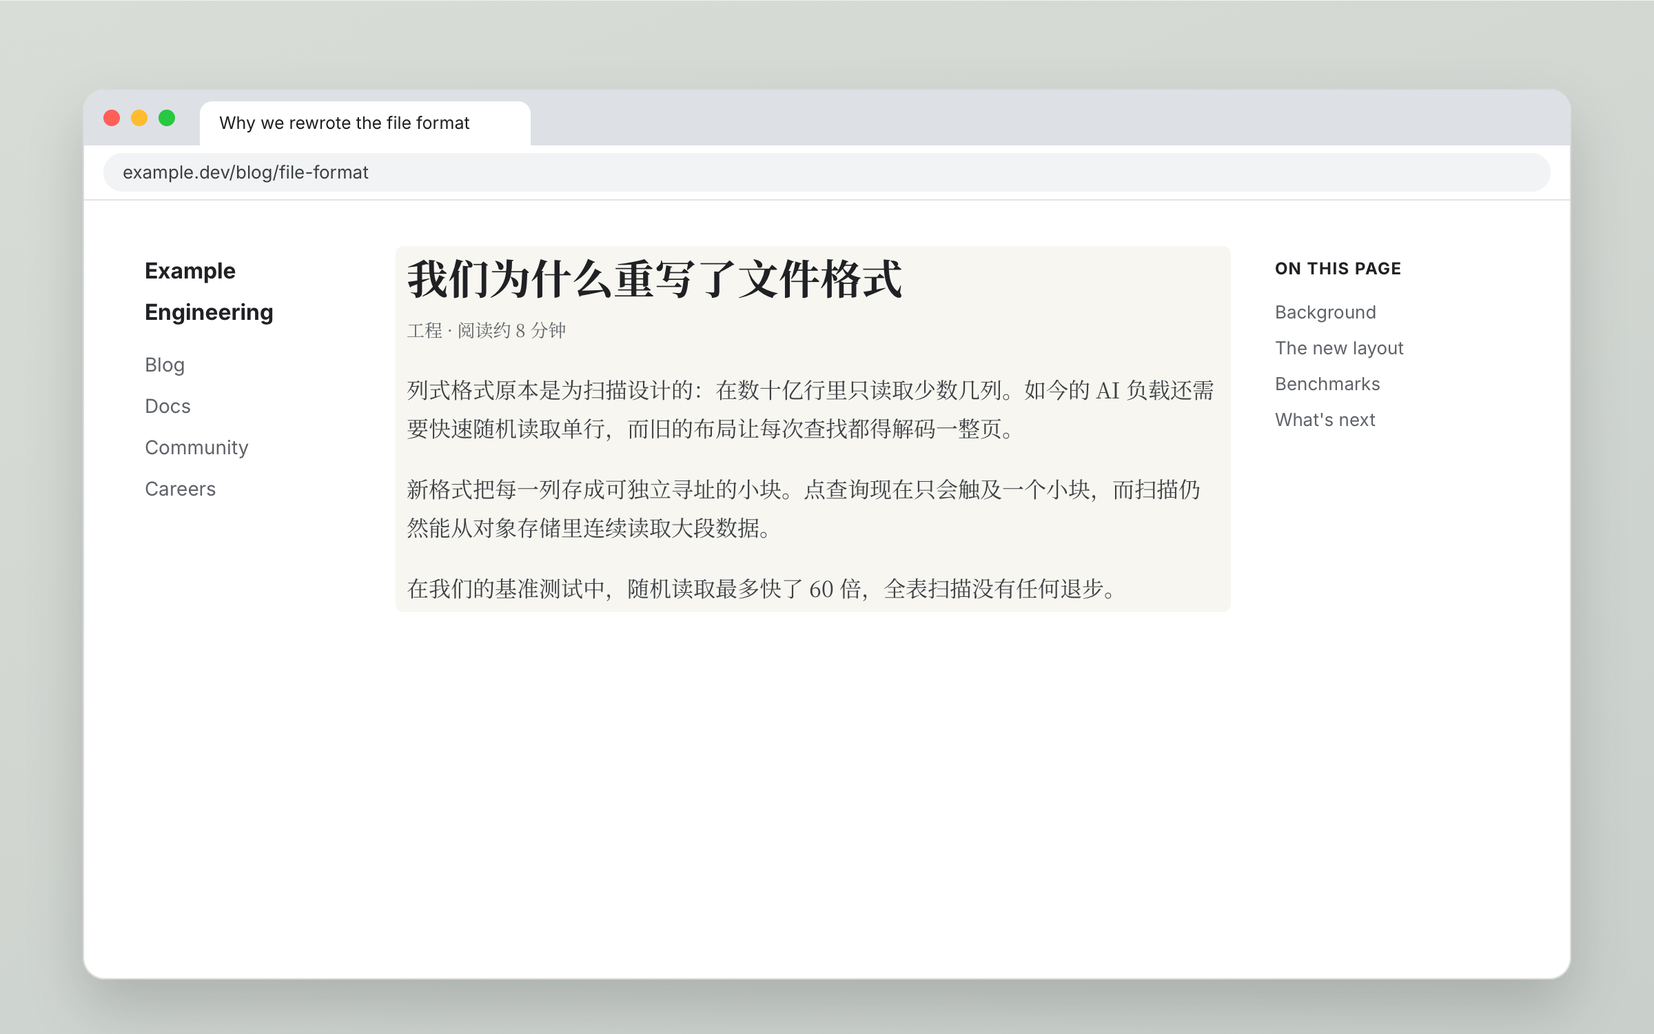
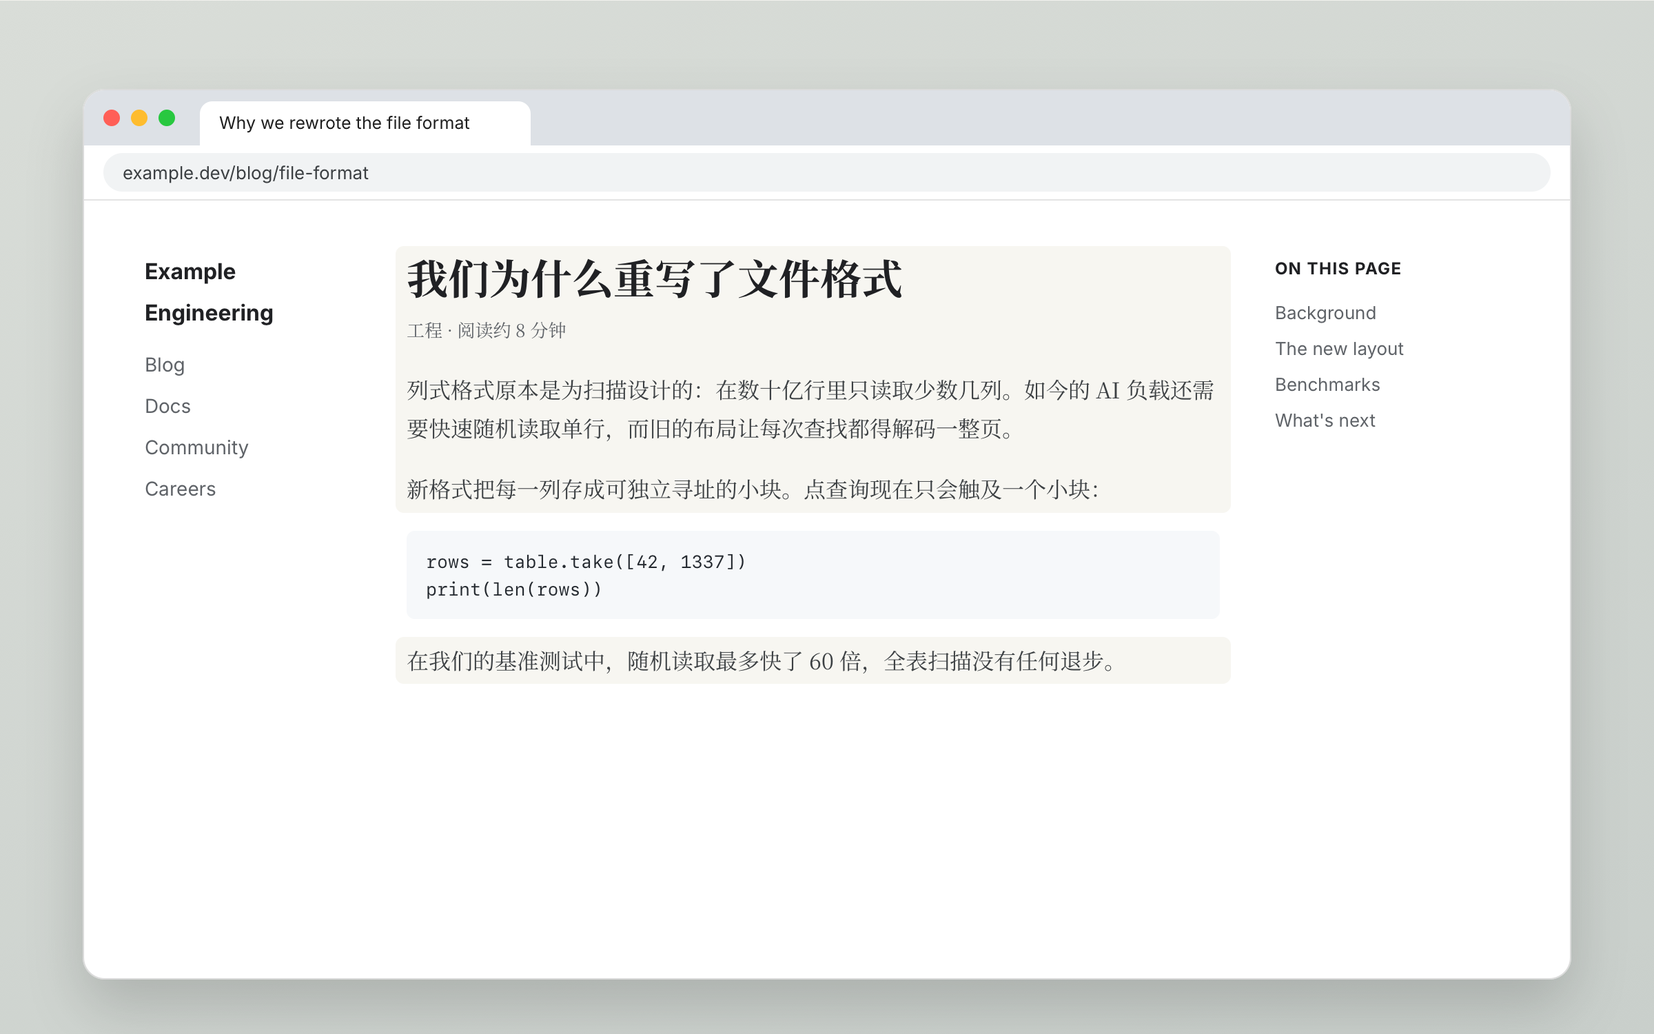
feat: leave code untranslated, including blocks without a code element
Code elements were already kept verbatim, but Slack's ``` blocks reach
Chromium's accessibility tree as a plain group of text: the <pre> is
pruned and no code element is left, so the layer translated them. The
only thing that sets them apart is the face. Chromium exposes no font
family, but it does answer each character's bounds, so text is treated
as code when the characters of its first line are all equally wide and
the sample holds characters a proportional face sets differently. On
live Slack and Claude desktop windows (257 texts) this picked out
exactly the code elements and nothing else. A monospaced run inside a
paragraph goes back unchanged like a code element; a block of it is not
translated at all.

Pasted logs, shell sessions, JSON and stack traces in a proportional face
are caught by what the text reads like. That rule can mistake prose full
of identifiers for code, so it applies to whole-window translation only;
Option-D on such a paragraph still translates it.

diff --git a/Sources/Cida/TranslationLayerRules.swift b/Sources/Cida/TranslationLayerRules.swift
@@ -310,6 +310,18 @@ struct LayerBlock: Equatable, Sendable {
     return words.count < 2
   }
 
+  /// Prose that reads as code: most of its lines are commands, statements, JSON or stack
+  /// frames (§四). Whole-window translation leaves it alone; ⌥D still translates it, so a
+  /// paragraph misjudged here is one key away.
+  var looksLikeCode: Bool {
+    let prose = pieces.filter { !$0.isVerbatim }.map(\.text).joined()
+    let lines = prose.split(whereSeparator: \.isNewline)
+      .map { $0.trimmingCharacters(in: .whitespaces) }
+      .filter { !$0.isEmpty }
+    guard !lines.isEmpty else { return false }
+    return lines.filter(LayerCodeText.isCodeLine).count * 3 >= lines.count * 2
+  }
+
   /// Puts link and code text back where the model kept the placeholders.
   func restoringVerbatim(in translation: String) -> String {
     restoring(in: translation).text
@@ -345,6 +357,80 @@ struct LayerBlock: Equatable, Sendable {
     return last.height <= lineHeight * 1.5
       ? CGPoint(x: last.maxX, y: last.minY)
       : CGPoint(x: frame.maxX, y: frame.maxY - lineHeight)
+  }
+}
+
+/// Code set in a monospaced face without a code element around it, like the ``` blocks of
+/// Slack, which Chromium exposes as a plain group of text (§四). Every character of a
+/// monospaced face is equally wide; in a proportional face a narrow character (`i`, `l`, `.`)
+/// is at least a fifth of the size narrower than the rest. Chromium rounds each character's box
+/// to whole points, so monospaced advances read as 7 and 8 alike.
+enum LayerMonospace {
+  static let narrow = Set("ijltfrI!|.,:;'`()[]{}")
+  static let wide = Set("mwMW@%")
+
+  static func isMonospaced(_ text: String, bounds: (NSRange) -> CGRect?) -> Bool {
+    var widths: [(isOdd: Bool, width: CGFloat)] = []
+    var hasNarrow = false, hasWide = false, hasMiddle = false
+    var firstLine: CGFloat?
+    var lastLeft = -CGFloat.greatestFiniteMagnitude
+    var offset = 0
+    for character in text {
+      let length = character.utf16.count
+      defer { offset += length }
+      if character.isNewline || widths.count >= 24 { break }
+      guard character.isASCII, !character.isWhitespace else { continue }
+      guard let box = bounds(NSRange(location: offset, length: length)), box.width > 0 else { return false }
+      // Only the first line: a wrapped line starts again at the left.
+      if let top = firstLine, abs(box.midY - top) > box.height / 2 { break }
+      // Some apps answer every range with the element's own box; those say nothing.
+      guard box.minX > lastLeft, box.width < box.height * 1.2 else { return false }
+      lastLeft = box.minX
+      firstLine = firstLine ?? box.midY
+      let isNarrow = narrow.contains(character), isWide = wide.contains(character)
+      hasNarrow = hasNarrow || isNarrow
+      hasWide = hasWide || isWide
+      hasMiddle = hasMiddle || (!isNarrow && !isWide)
+      widths.append((isNarrow || isWide, box.width))
+      let all = widths.map(\.width)
+      // Proportional as soon as characters differ by more than rounding.
+      if all.max()! - all.min()! > 1.5 { return false }
+    }
+    // Equal widths only mean something when the sample holds characters a proportional face
+    // sets differently.
+    let telling = (hasNarrow && (hasMiddle || hasWide)) || (hasWide && hasMiddle)
+    return widths.count >= 6 && telling
+  }
+}
+
+/// Lines of prose that read as code (§四): a shell prompt, a statement, an operator, JSON, a
+/// stack frame, or words that are mostly identifiers, paths and flags.
+enum LayerCodeText {
+  static func isCodeLine(_ line: String) -> Bool {
+    // Chat prose uses `->` for "becomes" and starts lines with `[WIP]`, so neither counts.
+    let starts = ["$ ", "#!", "//", "/*", "{", "}"]
+    let operators = ["=>", "::", "==", "!=", "&&", "||", ":=", "();", "</", "/>", "+=", "${"]
+    if line.hasPrefix("at "), line.contains(":"), line.contains("(") { return true }
+    // A JSON or YAML member: `"key": value`.
+    if line.hasPrefix("\""), line.contains("\":") { return true }
+    if starts.contains(where: line.hasPrefix) { return true }
+    if line.hasSuffix(";") || line.hasSuffix("{") || operators.contains(where: line.contains) { return true }
+    let words = line.split(whereSeparator: \.isWhitespace)
+    guard words.count >= 2 else { return words.first.map(isIdentifier) ?? false }
+    // "Fix parse_args() in cli.rs" is a sentence about code, not code.
+    return words.filter(isIdentifier).count * 3 >= words.count * 2
+  }
+
+  /// `snake_case`, `camelCase`, `a.b.c`, `/a/b`, `--flag`, `key=value`, `call(x)`.
+  static func isIdentifier(_ word: Substring) -> Bool {
+    let word = word.trimmingCharacters(in: CharacterSet(charactersIn: ",.;:!?\"'"))
+    guard word.contains(where: \.isLetter) else { return false }
+    if word.contains("_") || word.contains("=") || word.contains("(") || word.contains("/") { return true }
+    if word.hasPrefix("-"), word.count > 1 { return true }
+    let parts = word.split(separator: ".")
+    if parts.count > 1, parts.allSatisfy({ !$0.isEmpty }) { return true }
+    // An upper-case letter after a lower-case one: camelCase.
+    return zip(word, word.dropFirst()).contains { $0.isLowercase && $1.isUppercase }
   }
 }
 
@@ -408,7 +494,7 @@ enum LayerBlockExtractor {
       stack.append(contentsOf: children.reversed())
     }
     let paragraphs = continuingLines(blocks).filter(\.block.hasProse)
-    return automatic ? paragraphs.filter { !$0.block.isLabel } : paragraphs
+    return automatic ? paragraphs.filter { !$0.block.isLabel && !$0.block.looksLikeCode } : paragraphs
   }
 
   /// Joins runs that continue one line into one paragraph (§三). Apps put pieces of a line in
@@ -490,7 +576,9 @@ enum LayerBlockExtractor {
       switch child.role {
       case LayerRole.staticText:
         if let text = child.textValue, !text.isEmpty {
-          runs.append(Run(piece: .init(text: text, isVerbatim: false, frame: child.frame), frame: child.frame, text: child))
+          // Text set in a monospaced face is code, as if it were in a code element.
+          let isCode = LayerMonospace.isMonospaced(text, bounds: child.bounds(ofCharacters:))
+          runs.append(Run(piece: .init(text: text, isVerbatim: isCode, frame: child.frame), frame: child.frame, text: child))
         }
       case LayerRole.link:
         let text = plainText(child)

diff --git a/Tests/CidaTests/TranslationLayerTests.swift b/Tests/CidaTests/TranslationLayerTests.swift
@@ -289,6 +289,74 @@ final class TranslationLayerTests: XCTestCase {
     XCTAssertEqual(LayerBlockExtractor.blocks(in: row).map(\.text), ["Point lookup", "Full scan"])
   }
 
+  /// Slack's ``` blocks are a plain group of text in Chromium, with no code element; only the
+  /// face tells them apart. Text in a monospaced face is code: a block of it is left alone, and
+  /// a run of it inside prose goes back unchanged like a code element.
+  func testTextInAMonospacedFaceIsCode() {
+    // Chromium rounds each character's box to whole points (measured in Slack, 2026-09-28):
+    // a 12 pt monospaced face reads 7 or 8 wide, a 15 pt proportional one 3 to 12.
+    func text(_ value: String, _ frame: CGRect, width: @escaping (Character) -> CGFloat) -> Node {
+      let node = Node.text(value, frame)
+      let characters = Array(value)
+      node.characterBounds = { range in
+        guard range.length == 1, range.location < characters.count else { return nil }
+        let left = characters[..<range.location].map(width).reduce(frame.minX, +)
+        return CGRect(x: left, y: frame.minY, width: width(characters[range.location]), height: 18)
+      }
+      return node
+    }
+    let mono: (Character) -> CGFloat = { $0 == "(" || $0 == "l" ? 8 : 7 }
+    let proportional: (Character) -> CGFloat = { LayerMonospace.narrow.contains($0) ? 4 : "mw".contains($0) ? 12 : 8 }
+
+    let block = Node("AXGroup", CGRect(x: 760, y: 400, width: 600, height: 36), children: [
+      text("print(len(rows))\nrows.clear()", CGRect(x: 760, y: 400, width: 200, height: 36), width: mono),
+    ])
+    XCTAssertTrue(LayerBlockExtractor.blocks(in: block).isEmpty)
+
+    let mixed = Node("AXGroup", CGRect(x: 751, y: 500, width: 900, height: 22), children: [
+      text("Run the ", CGRect(x: 751, y: 500, width: 60, height: 22), width: proportional),
+      text("make release", CGRect(x: 811, y: 500, width: 90, height: 22), width: mono),
+      text(" target before you tag it.", CGRect(x: 901, y: 500, width: 190, height: 22), width: proportional),
+    ])
+    let paragraph = LayerBlockExtractor.blocks(in: mixed)
+    XCTAssertEqual(paragraph.map(\.maskedText), ["Run the ⟦0⟧ target before you tag it."])
+
+    func advancing(_ width: CGFloat) -> (NSRange) -> CGRect? {
+      { CGRect(x: CGFloat($0.location) * width, y: 0, width: width, height: 18) }
+    }
+    // Equal widths alone say nothing when every character is of middling width, when the app
+    // answers every range with one box, or when it answers none.
+    XCTAssertFalse(LayerMonospace.isMonospaced("abcdeghk", bounds: advancing(8)))
+    XCTAssertTrue(LayerMonospace.isMonospaced("hello_world", bounds: advancing(7)))
+    XCTAssertFalse(LayerMonospace.isMonospaced("hello_world", bounds: { _ in CGRect(x: 0, y: 0, width: 7, height: 18) }))
+    XCTAssertFalse(LayerMonospace.isMonospaced("hello_world", bounds: { _ in nil }))
+  }
+
+  /// Whole-window translation leaves prose that reads as code alone: a shell session, a stack
+  /// trace, JSON. Sentences about code stay prose; ⌥D translates the rest on request.
+  func testWholeWindowTranslationLeavesTextThatReadsAsCodeAlone() {
+    func block(_ text: String) -> LayerBlock {
+      LayerBlock(pieces: [.init(text: text, isVerbatim: false)], frame: .zero, lineHeight: 18)
+    }
+    for code in [
+      "$ cargo build --release\n$ ./target/release/lance",
+      "at com.lancedb.Scanner.next(Scanner.java:42)\nat com.lancedb.Table.scan(Table.java:118)",
+      "{\n\"retention\": \"7d\",\n\"compact\": true\n}",
+      "let rows = table.scan().await?;",
+      "PREFETCH_DEPTH=8 read_ahead_bytes=65536",
+    ] {
+      XCTAssertTrue(block(code).looksLikeCode, code)
+    }
+    for prose in [
+      "Fix parse_args() in cli.rs before the release.",
+      "The compaction job finished overnight, but the manifest count went up.",
+      "[WIP] status: open -> closed after review",
+      "压缩任务昨晚跑完了，但 manifest 数涨了三倍。",
+    ] {
+      XCTAssertFalse(block(prose).looksLikeCode, prose)
+    }
+  }
+
   /// A paragraph that wraps, with a link and more text after it on its last line, each in a
   /// container of its own (the issue post in Slack, 2026-09-28): the link and the text after it
   /// continue the paragraph rather than starting a new one part way along the line.

diff --git a/Design/boards/components.js b/Design/boards/components.js
@@ -349,7 +349,9 @@ class CidaLayerScene extends HTMLElement {
 
   browser(layer) {
     const translated = layer === "translated";
-    // The article's paragraphs share one sheet of paper.
+    // The article's paragraphs share a sheet of paper; the code between them stays as it is
+    // and breaks the sheet in two.
+    const sheet = translated ? "layer-sheet" : "";
     const t = (original, translation) =>
       translated ? `<span class="layer-text">${translation}</span>` : original;
     return `
@@ -357,15 +359,21 @@ class CidaLayerScene extends HTMLElement {
       <div class="browser-toolbar"><div class="address">example.dev/blog/file-format</div></div>
       <div class="page">
         <div class="page-nav"><b>Example Engineering</b>Blog<br>Docs<br>Community<br>Careers</div>
-        <div class="page-article${translated ? " layer-sheet" : ""}">
-          <h1>${t("Why we rewrote the file format", "我们为什么重写了文件格式")}</h1>
-          <div class="meta">${t("Engineering · 8 min read", "工程 · 阅读约 8 分钟")}</div>
-          <p>${t("Columnar formats were designed for scans that read a few columns across billions of rows. Modern AI workloads also need fast random access to individual rows, and the old layout made every lookup pay for a full page decode.",
-            "列式格式原本是为扫描设计的：在数十亿行里只读取少数几列。如今的 AI 负载还需要快速随机读取单行，而旧的布局让每次查找都得解码一整页。")}</p>
-          <p>${t("The new format stores each column in small, independently addressable chunks. A point lookup now touches a single chunk, while scans still stream large contiguous reads from object storage.",
-            "新格式把每一列存成可独立寻址的小块。点查询现在只会触及一个小块，而扫描仍然能从对象存储里连续读取大段数据。")}</p>
-          <p>${t("In our benchmarks, random access became up to 60 times faster with no regression on full-table scans.",
-            "在我们的基准测试中，随机读取最多快了 60 倍，全表扫描没有任何退步。")}</p>
+        <div class="page-article">
+          <div class="${sheet}">
+            <h1>${t("Why we rewrote the file format", "我们为什么重写了文件格式")}</h1>
+            <div class="meta">${t("Engineering · 8 min read", "工程 · 阅读约 8 分钟")}</div>
+            <p>${t("Columnar formats were designed for scans that read a few columns across billions of rows. Modern AI workloads also need fast random access to individual rows, and the old layout made every lookup pay for a full page decode.",
+              "列式格式原本是为扫描设计的：在数十亿行里只读取少数几列。如今的 AI 负载还需要快速随机读取单行，而旧的布局让每次查找都得解码一整页。")}</p>
+            <p>${t("The new format stores each column in small, independently addressable chunks. A point lookup now touches a single chunk:",
+              "新格式把每一列存成可独立寻址的小块。点查询现在只会触及一个小块：")}</p>
+          </div>
+          <pre class="page-code">rows = table.take([42, 1337])
+print(len(rows))</pre>
+          <div class="${sheet}">
+            <p>${t("In our benchmarks, random access became up to 60 times faster with no regression on full-table scans.",
+              "在我们的基准测试中，随机读取最多快了 60 倍，全表扫描没有任何退步。")}</p>
+          </div>
         </div>
         <div class="page-toc"><b>ON THIS PAGE</b>Background<br>The new layout<br>Benchmarks<br>What's next</div>
       </div>`;

diff --git a/Design/boards/components.css b/Design/boards/components.css
@@ -904,6 +904,7 @@ body {
 .page-article h1 { margin: 0 0 8px; font-size: 30px; line-height: 38px; color: #202124; }
 .page-article .meta { margin-bottom: 20px; font-size: 13px; color: #5F6368; }
 .page-article p { margin: 0 0 16px; font-size: 16px; line-height: 27px; color: #3C4043; }
+.page-code { margin: 0 0 16px; padding: 12px 14px; border-radius: 6px; background: #F6F8FA; font: 13px/20px ui-monospace, Menlo, monospace; color: #24292F; }
 .page-toc { width: 170px; flex: none; font-size: 13px; line-height: 26px; color: #5F6368; }
 .page-toc b { display: block; margin-bottom: 6px; font-size: 12px; letter-spacing: 0.06em; color: #202124; }
 
@@ -932,9 +933,9 @@ body {
   background: var(--surface-paper);
   color: var(--text-ink);
 }
-/* The sheet ends 3px below its last line, not at the bottom of the column. */
-.page-article.layer-sheet { align-self: flex-start; }
+/* A sheet ends 3px below its last line; what follows keeps its place. */
 .layer-sheet > :last-child { margin-bottom: 0; }
+.layer-sheet + .page-code { margin-top: 16px; }
 /* A translation: Cida's result serif; links in accent. Once written it carries no caret. */
 .layer-text { font-family: var(--font-result-cjk); }
 /* Waiting: Cida's caret breathes after the original (drawn at its brightest). */

diff --git a/Design/boards/translation-layer.html b/Design/boards/translation-layer.html
@@ -55,7 +55,7 @@
   <div class="state-label">⑩ 再按 ⌥⇧D · 停止 — 译文全部淡出(motion-height-ms),提示胶囊「已停止翻译这个窗口」1.5 秒</div>
   <cida-layer-scene state="layer-window-off" app="chat" layer="window-off"></cida-layer-scene>
 
-  <div class="state-label">⑪ 网页 — 整页正文换成译文;标题、署名与各段左边对齐、上下相接,共用一张纸,宽度取最宽的一段、段间空隙铺满,不再是一块块宽窄不一的补丁;导航与目录是纯链接,保持原样;按网站记住</div>
+  <div class="state-label">⑪ 网页 — 整页正文换成译文;标题、署名与各段左边对齐、上下相接,共用一张纸,宽度取最宽的一段、段间空隙铺满,不再是一块块宽窄不一的补丁;代码块(等宽字体或 code 元素)保持原文、不铺纸,纸在它上下断开;导航与目录是纯链接,保持原样;按网站记住</div>
   <cida-layer-scene state="layer-translated-browser" app="browser" layer="translated"></cida-layer-scene>
 
   <div class="divider"></div>

diff --git a/Design/spec/translation-layer.md b/Design/spec/translation-layer.md
@@ -51,9 +51,13 @@
 - 同一个容器里手动换行的各行分成几块：上一行在右边远没写满（空出容器宽度的 40% 以上）、下一段又从左边缘另起，或文字以换行符结尾。例如 Slack 告警消息是一个元素，里面「Service: …」「Urgency: …」各占一行，每行各是一块，译文只盖住自己那一行。自然折行的段落写满每一行，不会被拆开。
 - 一行被应用拆进几个容器时（Slack 里桥接来的 Discord 消息，「Zhuang Keju：」「大家好…issue：」和链接各在一个容器里），在这一行上首尾相接的几段合成一段，中间隔一个表情也算；只有链接的容器也并进来。2026-09-28 按容器分块时，链接被单独跳过、留在原位，更短的中文译文后面空出一大段。表格里并排的格子仍是各自的段落。
 - 块里的链接文字（@提及、网址、频道名）与代码（`SaaS`、事件编号、时间戳）以 ⟦n⟧ 占位发给模型，回来后原样放回，只翻译其余文字。
+- 代码不翻译。代码有两种认法，都只看通用信号，不为任何应用写特例：
+  - 代码元素（子角色 `AXCodeStyleGroup`，网页的 `<code>`）里的文字是代码。
+  - 用等宽字体写的文字是代码。Slack 的 ``` 代码块在 Chromium 里只是普通分组，没有代码元素，唯一的区别是字体；Chromium 不给字体名（只给字号与粗体），所以按每个字的宽度判断：取第一行最多 24 个 ASCII 字符，逐个取字符框（Chromium 取整到整点，等宽字的宽度读成 7、8 不等），宽度相差都不超过 1.5pt、而且样本里有比例字体会排得明显不同的字（`i`、`l`、`.`、括号这类窄字，或 `m`、`w` 这类宽字）时才算等宽；字符框不逐个向右推进（有的应用对任何范围都回答整个元素的框）或取不到时不算。一段里等宽的片段按代码占位原样放回；整块都是等宽文字时整块不翻。2026-09-28 在 Slack 与 Claude 桌面端各一屏（137 与 120 段文字）上实测，被判为等宽的全部是 `<code>` 片段，没有误判。
+  - 文本区（TextEdit、终端一类）不按字体判断：TextEdit 的纯文本文档默认就是等宽字体。
 - 文字全部在链接、代码或按钮里的块不翻译：发送人、时间、表情回应、「N 条回复」、附件名、导航链接都是界面文字。Chromium 放在视图外、只有 1pt 高的虚拟行不读。
 - 整篇文档放在一个文本区里的（TextEdit、备忘录一类的原生文本视图）：按换行分成段落，每段的位置由文本区按字符范围给出。
-- 整窗翻译时再加两条，都只看系统的通用语义与文字本身，不为任何应用写特例：导航树（`AXOutline`，如 Slack 的频道栏、Finder 侧栏、邮件的邮箱列表、网页里标成 tree 的导航）里的文字不翻；只有一个词的标签不翻——拉丁字母等用空格分词的文字少于两个词、中日文这类不用空格的文字少于 4 个字（频道名、文件名、分支名一类标识符）。已知的漏网：用普通容器拼成、每项有几个词的导航会被翻译；只有一个词的消息（「LGTM」）不翻。翻错的段落用 ⌥D 换回原文。
+- 整窗翻译时再加两条，都只看系统的通用语义与文字本身，不为任何应用写特例：导航树（`AXOutline`，如 Slack 的频道栏、Finder 侧栏、邮件的邮箱列表、网页里标成 tree 的导航）里的文字不翻；只有一个词的标签不翻——拉丁字母等用空格分词的文字少于两个词、中日文这类不用空格的文字少于 4 个字（频道名、文件名、分支名一类标识符）；读起来是代码的段落不翻——三分之二以上的行是命令（`$ ` 开头）、语句（以 `;`、`{` 结尾，或含 `=>`、`::`、`==`、`&&`、`();` 这类运算符）、JSON 成员、堆栈行（`at …(文件:行)`），或者三分之二以上的词是标识符、路径与参数（`snake_case`、`camelCase`、`a.b`、`/a/b`、`--flag`、`k=v`）。这一条只看文字，可能把满是标识符的散文当成代码，所以只用于整窗翻译，⌥D 指着它仍然照翻；「Fix parse_args() in cli.rs」这样谈论代码的句子、表示「变成」的 `->` 与行首的 `[WIP]` 仍算散文。已知的漏网：用普通容器拼成、每项有几个词的导航会被翻译；只有一个词的消息（「LGTM」）不翻。翻错的段落用 ⌥D 换回原文。
 - 请求：一个 pane 里需要翻译的段落编号成 JSON 一次发出（每次最多 40 段、12000 字），回复按编号对应；少一个编号或有空译文就算这批失败。同一段原文只翻译一次（按原文缓存，所有 pane 共用）。
 - ⌥D 的一段与区域里的段落走同一个批量请求，共用缓存。
 
